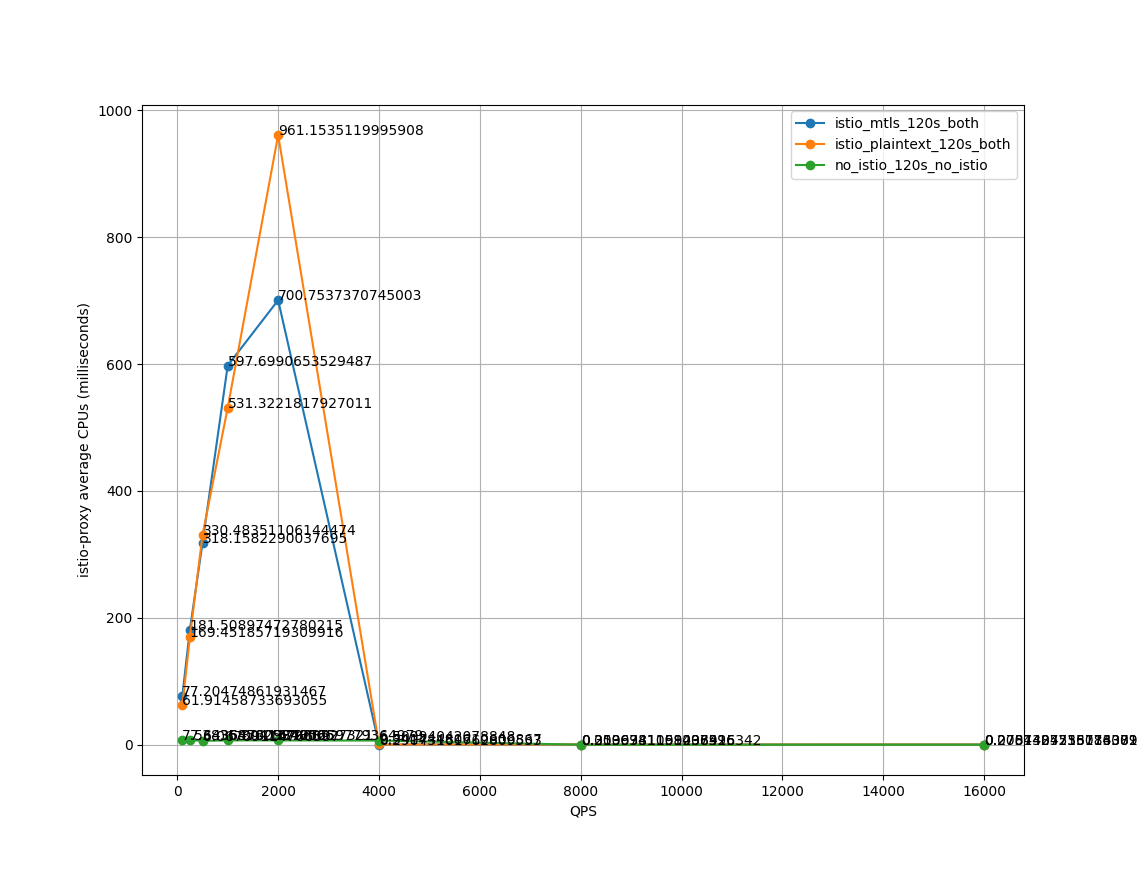
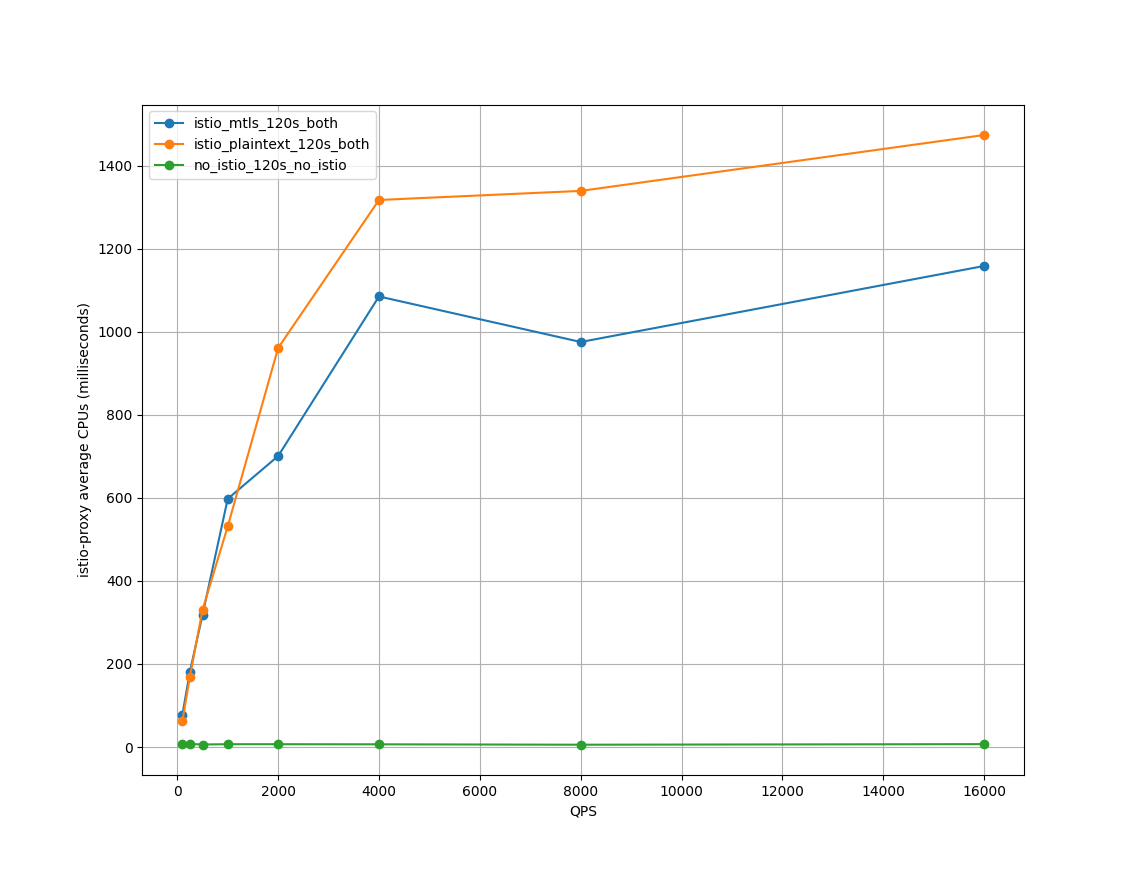
fix cpu_mem graphs

diff --git a/perf/benchmark/graph_plotter/graph_plotter.py b/perf/benchmark/graph_plotter/graph_plotter.py
@@ -51,8 +51,9 @@ def plotter(args):
                 plot_key = "istio_with_stats"
         plt.plot(args.query_list, val, marker='o', label=plot_key)
         for i, j in zip(args.query_list, val):
-            ax.annotate(str(j), xy=(i, j))
+            # ax.annotate(str(j), xy=(i, j))
             # print("i=%x,j=%x,args.querylist=%x,val=%x,key=%x", i, j, args.query_list, val, key)
+            pass
 
     plt.xlabel(get_x_label(args))
     plt.ylabel(get_y_label(args))
@@ -123,6 +124,7 @@ def get_data_helper(df, query_list, query_str, telemetry_mode, metric_name):
                     y_series_data.append(data[metric_name].head(1).values[0] / data["ActualQPS"].head(1).values[0])
                 
                 prev = data["ActualQPS"].head(1).values[0]
+                # print(f"prev={prev}")
             else:
                 # when nocatchup+uniform is true and the service can't keep up
                 # the actual qps doesn't reach the target qps leading to empty data
@@ -133,13 +135,16 @@ def get_data_helper(df, query_list, query_str, telemetry_mode, metric_name):
                     sorted_df = new_df.sort_values("ActualQPS")
                     new_data = sorted_df[sorted_df["ActualQPS"] > prev]
 
-                    # print(f"next_row={new_data}")
+                    # print(f"next_row={new_data[metric_name].head(1).values[0]}")
                     if not new_data.head().empty:
                         prev = new_data["ActualQPS"].head(1).values[0]
                         # print(f"queried for ql={ql}, telemetry_mode={telemetry_mode}, query_str={query_str}")
                         # print(f"latency={new_data[metric_name].head(1).values[0]}, qps={new_data['ActualQPS'].head(1).values[0]}")
                         # print(f"y_series_data={new_data[metric_name].head(1).values[0] / new_data['ActualQPS'].head(1).values[0]} with actual qps")
-                        y_series_data.append(new_data[metric_name].head(1).values[0] / new_data["ActualQPS"].head(1).values[0])
+                        if metric_name.startswith('cpu') or metric_name.startswith('mem'):
+                            y_series_data.append(new_data[metric_name].head(1).values[0])
+                        else:
+                            y_series_data.append(new_data[metric_name].head(1).values[0] / new_data["ActualQPS"].head(1).values[0])
                         # print(f"y_series_data={new_data[metric_name].head(1).values[0] / ql} with ql")
                         # y_series_data.append(new_data[metric_name].head(1).values[0] / ql)
                     else: 
